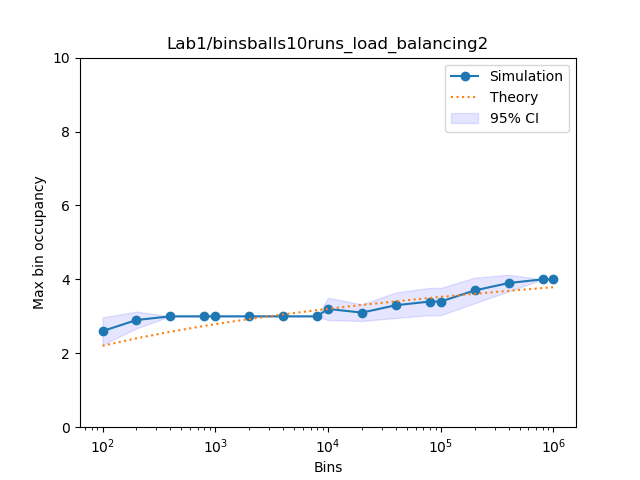
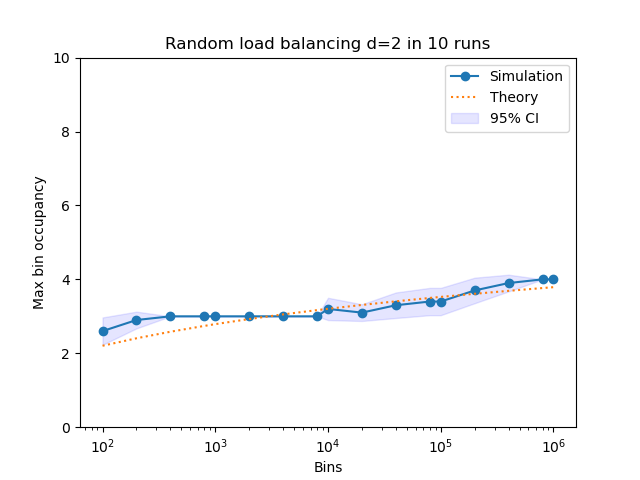
Lab2: graph bug fixed

Changed region(s): [[0.25, 0.0625, 0.7812, 0.125]]

diff --git a/Lab2/lab2_ex1_1_graph.py b/Lab2/lab2_ex1_1_graph.py
@@ -4,6 +4,19 @@ import os
 
 # THIS SCRIPT ASSUMES THAT THE FILE ARE IN A FOLDER CALLED "Lab1"
 
+def get_n_runs_and_policy(filename):
+    s_chunk = filename.split('s')
+    runs = s_chunk[2].split('r')[0]
+    if filename.split('.')[0].endswith('s'):
+        policy = 'Random dropping policy'
+    else:
+        if filename.split('.')[0].endswith('2'):
+            policy = 'Random load balancing d=2'
+        else:
+            policy = 'Random load balancing d=4'
+
+    return runs, policy
+
 def plot_graph(input_filename,output_filename):
 
     # instantiate all the useful lists
@@ -54,7 +67,8 @@ def plot_graph(input_filename,output_filename):
         plt.ylim(bottom=0, top=10)
     else:
         plt.ylim(bottom=0)
-    title = input_filename.split(".")[0]
+    runs, policy = get_n_runs_and_policy(input_filename)
+    title = policy + ' in ' + runs + ' runs'
     plt.title(title)
     plt.legend()
     # plt.show()
@@ -65,7 +79,7 @@ def get_all_binsnballs_graphs():
     # find the .dat files
     files_paths = []
     for _file in os.listdir(os.getcwd()+"/Lab2"):
-        if _file.find("binsball") > 0:
+        if _file.find("binsball") >= 0:
             files_paths.append(_file)
     
     # make a folder
@@ -194,3 +208,4 @@ def comparison_graph(mode):
 get_all_binsnballs_graphs()
 comparison_graph("max_occupancy")
 comparison_graph("rel_error")
+
